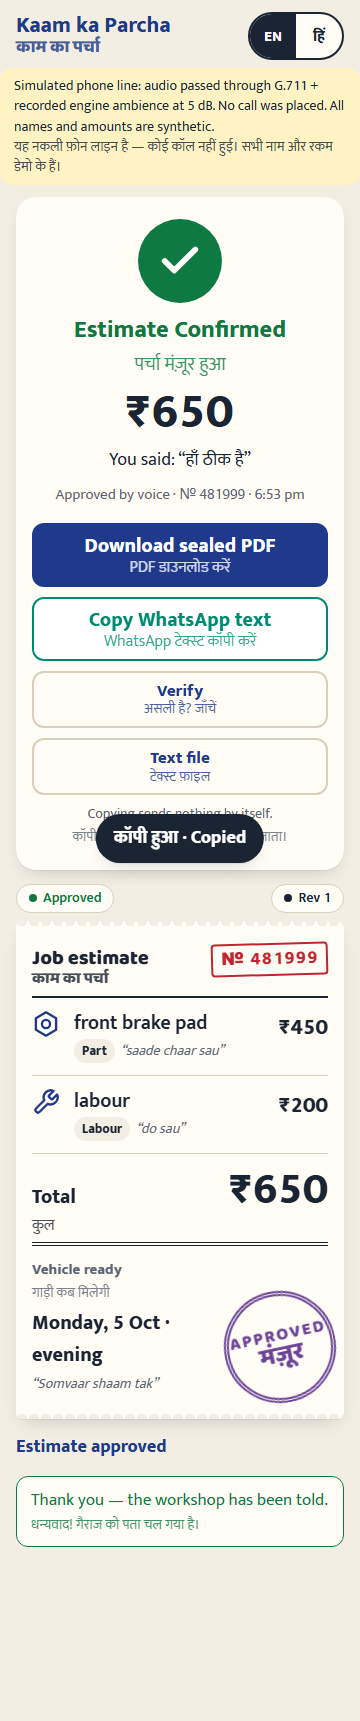
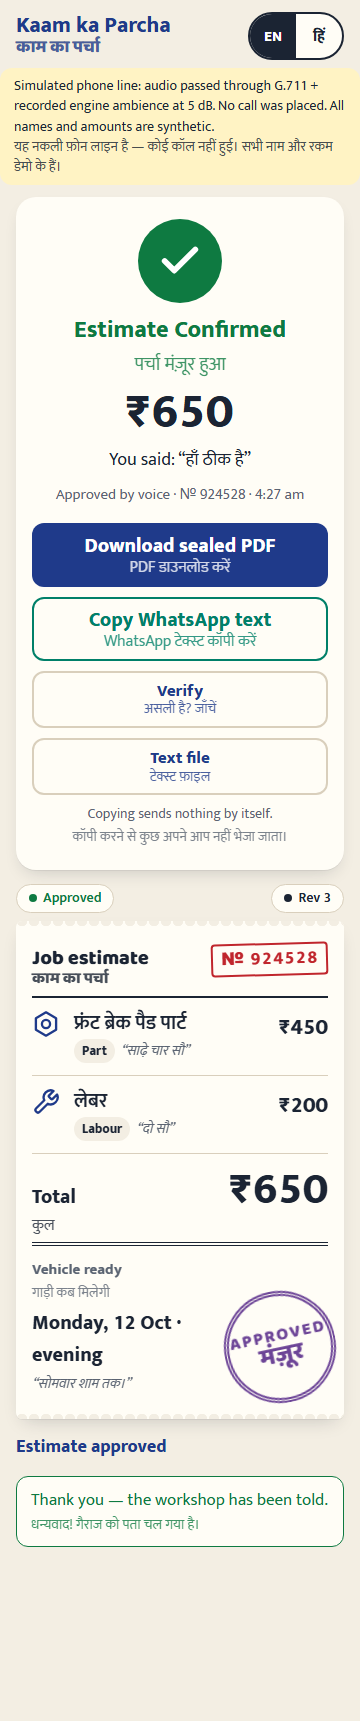
docs(readme): live-run screenshots from real Gnani services; refresh test badge

diff --git a/scripts/capture_live_screens.py b/scripts/capture_live_screens.py
@@ -94,6 +94,14 @@ def settle(http: httpx.Client, sid: str, revision: int, audio) -> int:
     return revision
 
 
+def shoot(page, path: Path) -> None:
+    """Size the viewport to the whole page so the fixed mic dock sits at the bottom instead of mid-slip."""
+    height = page.evaluate("document.documentElement.scrollHeight")
+    page.set_viewport_size({"width": PHONE["width"], "height": max(PHONE["height"], int(height))})
+    page.wait_for_timeout(400)
+    page.screenshot(path=str(path))
+
+
 def with_mic(pw, wav: Path, viewport, actions) -> None:
     browser = pw.chromium.launch(args=[*MEDIA, f"--use-file-for-fake-audio-capture={wav.resolve()}"])
     page = browser.new_context(
@@ -134,7 +142,7 @@ def main() -> int:
                 page.wait_for_timeout(1500)
                 state["sid"] = page.evaluate("window.getCurrentSession().id")
                 state["rev"] = page.evaluate("window.getCurrentSession().revision")
-                page.screenshot(path=str(OUT / "workshop-flagged-360.png"), full_page=True)
+                shoot(page, OUT / "workshop-flagged-360.png")
 
             with_mic(pw, audio["estimate"][0], PHONE, mechanic)
             sid = state["sid"]
@@ -147,7 +155,7 @@ def main() -> int:
             ).new_page()
             page.goto(f"{BASE}/customer/{sid}")
             page.wait_for_timeout(2000)
-            page.screenshot(path=str(OUT / "customer-call-360.png"), full_page=True)
+            shoot(page, OUT / "customer-call-360.png")
             browser.close()
 
             def customer(page):
@@ -160,7 +168,7 @@ def main() -> int:
                 page.locator("#customer-stop").click()
                 expect(page.locator("#confirmed-banner")).to_be_visible(timeout=120000)
                 page.wait_for_timeout(1500)
-                page.screenshot(path=str(OUT / "customer-sealed-360.png"), full_page=True)
+                shoot(page, OUT / "customer-sealed-360.png")
 
             with_mic(pw, audio["reply"][0], PHONE, customer)
 
@@ -168,7 +176,7 @@ def main() -> int:
             page = browser.new_context(viewport=PHONE, locale="hi-IN").new_page()
             page.goto(f"{BASE}/verify/{sid}")
             page.wait_for_timeout(1500)
-            page.screenshot(path=str(OUT / "verify-360.png"), full_page=True)
+            shoot(page, OUT / "verify-360.png")
 
             # Stage: both phones side by side showing one sealed parcha, driven through the same live services.
             stage_sid = re.search(r'src="/customer/([A-Za-z0-9_-]+)"', httpx.get(f"{BASE}/stage").text).group(1)

diff --git a/README.md b/README.md
@@ -4,7 +4,7 @@
 
 [![Python 3.12](https://img.shields.io/badge/python-3.12-blue.svg)](https://www.python.org/downloads/)
 [![FastAPI](https://img.shields.io/badge/FastAPI-0.115+-009688.svg)](https://fastapi.tiangolo.com)
-[![Pytest Passed](https://img.shields.io/badge/tests-170%20passed%20(100%25%20offline)-brightgreen.svg)](tests/)
+[![Pytest Passed](https://img.shields.io/badge/tests-631%20passed%20(100%25%20offline)-brightgreen.svg)](tests/)
 [![Playwright E2E](https://img.shields.io/badge/playwright-E2E%20Passed%20(4%20Viewports)-purple.svg)](scripts/run_webattack_suite.py)
 [![Gnani AI](https://img.shields.io/badge/Gnani%20AI-Prisma%20%7C%20Timbre-orange.svg)](https://vachana.ai)
 [![License: MIT](https://img.shields.io/badge/License-MIT-yellow.svg)](LICENSE)
@@ -74,10 +74,12 @@ flowchart TD
 
 ### Visual Interface Walkthrough
 
+Captured from a **live run** (`scripts/capture_live_screens.py`): real Gnani Prisma recognition, Evon extraction and Timbre read-back, driven by spoken audio. The speech is synthetic (Timbre voices into a fake microphone) and no real customer data is used. The phone line is simulated and WhatsApp is clipboard copy.
+
 | Leg 1: Mechanic (`/workshop`) — काम का पर्चा | Leg 2: Vehicle owner (`/customer/{id}`) — गैराज से कॉल |
 |:---:|:---:|
 | ![Workshop slip with a row asking for a re-check](docs/ui/workshop-flagged-360.png) | ![Customer call card with unticked consent](docs/ui/customer-call-360.png) |
-| *पीली लाइन पर "दोबारा बोलें" — the slip asks for re-checks row by row* | *कॉल जैसा पेज, सहमति पहले — call-style page, consent starts unticked* |
+| *पीली लाइन पर "दोबारा बोलें" — each amount needs a second recording; what Prisma heard is shown* | *कॉल जैसा पेज, सहमति पहले — call-style page, consent starts unticked* |
 
 | Sealed receipt (`मंज़ूर`) | Verify (`/verify/{id}`) |
 |:---:|:---:|
@@ -87,7 +89,7 @@ flowchart TD
 | Stage view (`/stage`) for the 60-second demo |
 |:---:|
 | ![Stage view with both phones](docs/ui/stage-sealed-1440.png) |
-| *Mechanic and owner phones side by side; all screenshots use synthetic data* |
+| *Mechanic and owner phones side by side, one sealed parcha through the live services* |
 
 
 ---
